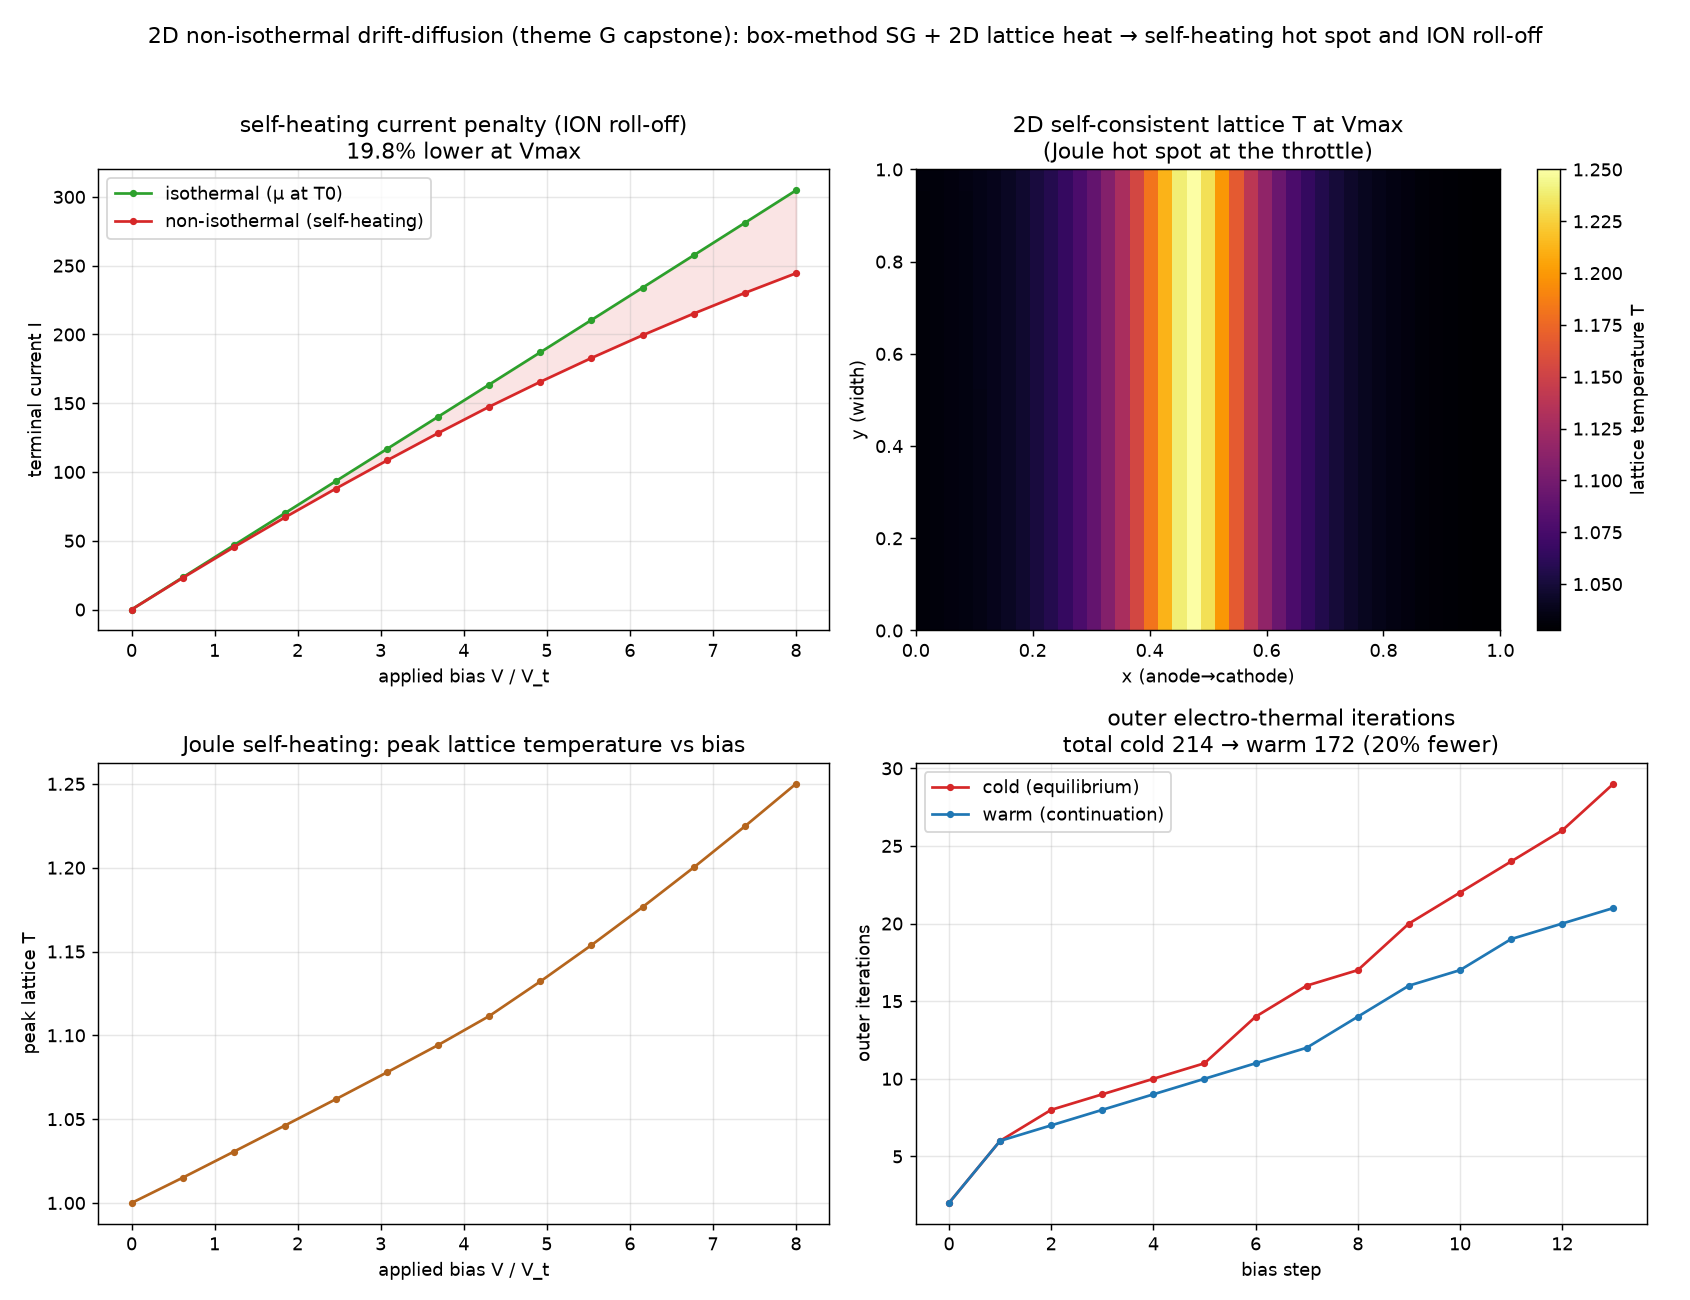
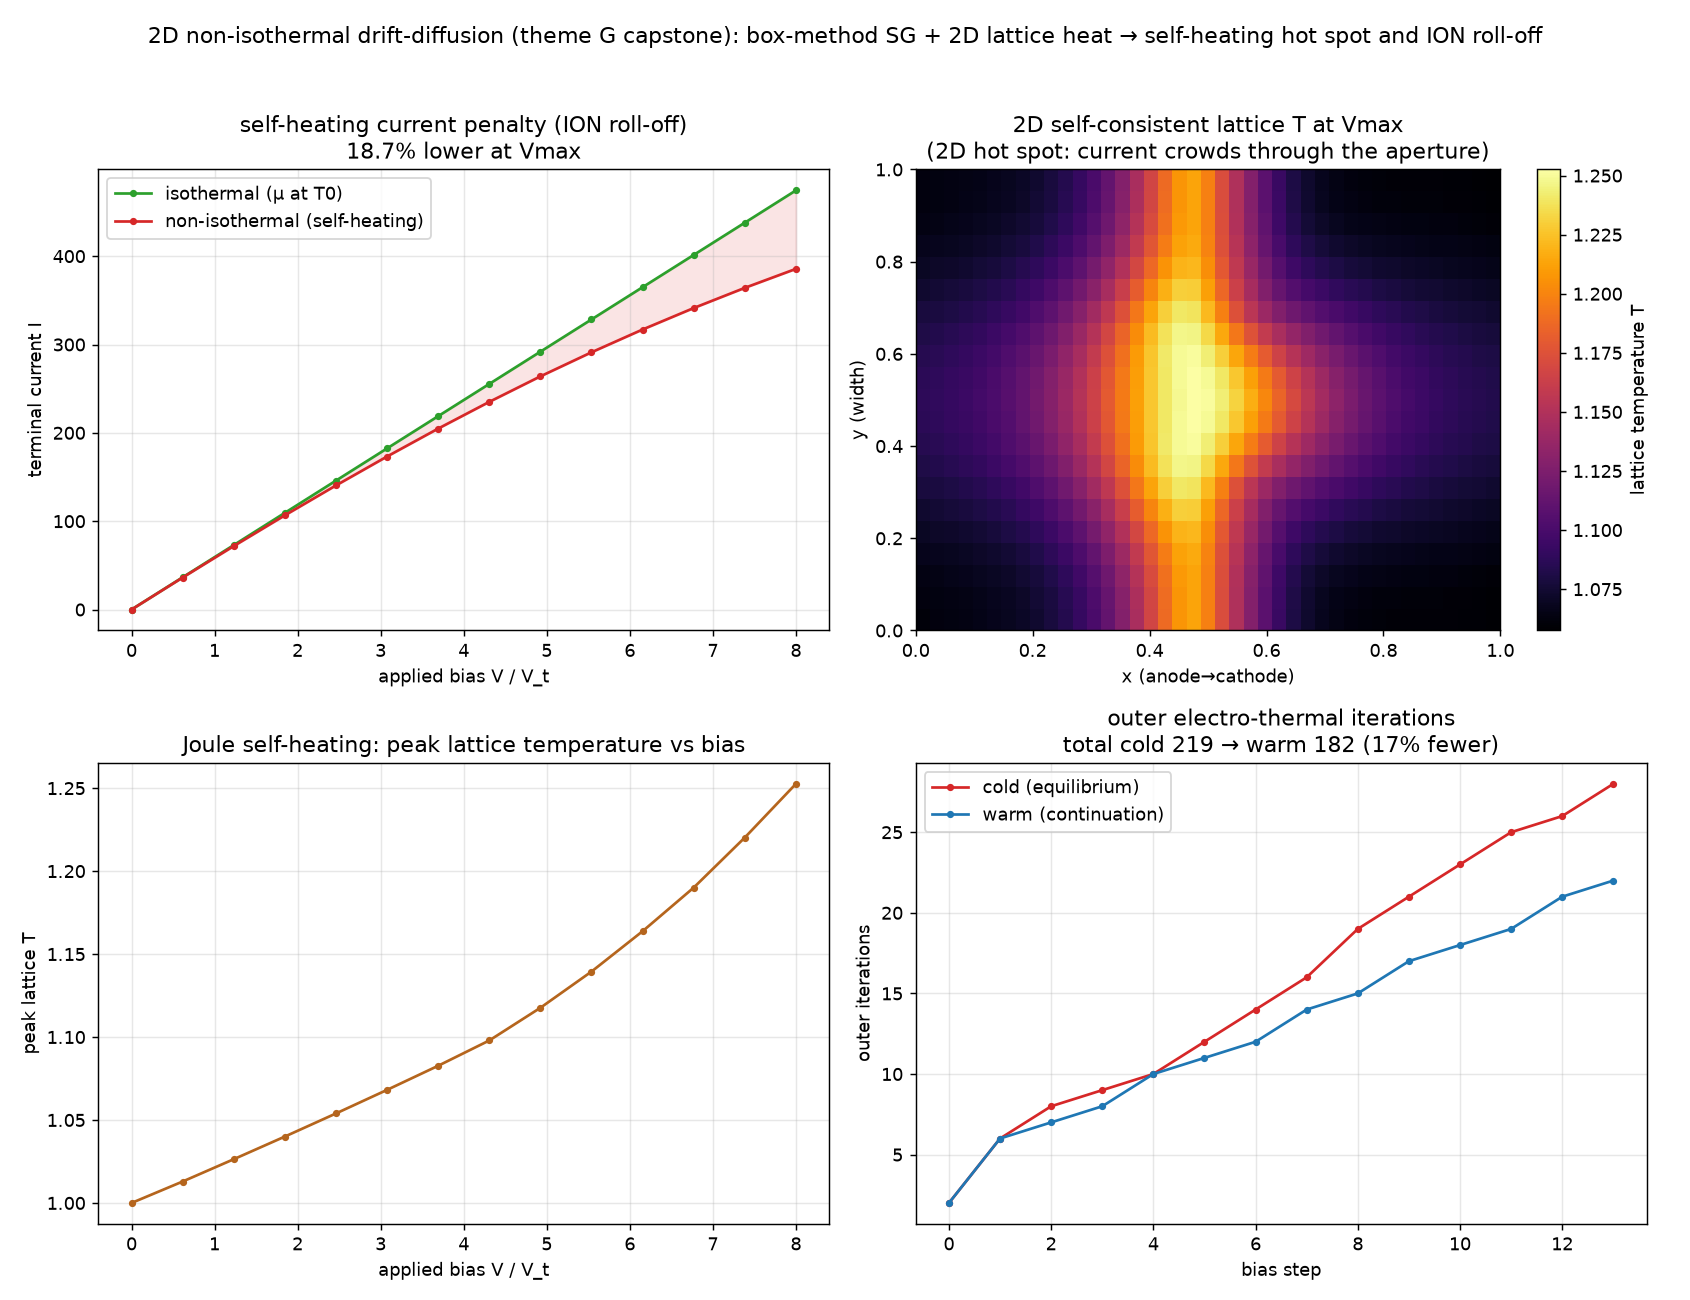
Give ⑳ a 2D constriction so the self-heating hot spot is genuinely 2D
Previously the doping throttle spanned the full width, so current (and the
hot spot) was a y-uniform band — a series resistor. Replace the 1D-in-x
throttle with a 2D constriction: a lightly-doped (high-resistance) barrier
spanning top and bottom near mid-channel, leaving a central conductive
aperture. Current must funnel through the aperture and crowds there,
producing a genuine 2D hot spot localized in both x and y (bright blob at
the centre, cool barriers top/bottom).

Physics/solver unchanged; only doping() becomes 2D (contacts stay heavily
doped for ohmic behaviour). Results stay clean: self-heating current
penalty 18.7% at Vmax, peak lattice-T rise 0.25, V=0 validated (~0 current
and heating), bias-continuation warm-start cuts outer iterations
cold 219 -> warm 182 (17% fewer). Docstring scope, plot title, CONCEPT row
⑳ and RESEARCH_THEMES theme G updated to describe the 2D current-crowding
hot spot (dropping the old y-uniform caveat).

Claude-Session: https://claude.ai/code/session_01TbPwqgUS5oNeMha35iGnea

diff --git a/dd_nonisothermal_2d.py b/dd_nonisothermal_2d.py
@@ -4,8 +4,10 @@ solve (⑰ cfet_thermal_crosstalk.py, ⑲ ...3d.py) with the 1-D non-isothermal 
 coupling (⑱ dd_nonisothermal_1d.py). This is the "2-D non-isothermal DD" next
 axis flagged in RESEARCH_THEMES theme G and LITREVIEW_G §4.
 
-Model (scaled, steady, unipolar electrons — an n-i-n resistive channel so a real
-current dissipates power):
+Model (scaled, steady, unipolar electrons — an n-i-n resistive channel with a 2D
+CONSTRICTION: a lightly-doped barrier spans top and bottom near mid-channel, leaving
+a central conductive aperture, so current funnels through it and crowds — a genuine
+2D hot spot, not just a 1D-along-x band):
   * Electrical: nonlinear Poisson for psi (5-point) + a 2-D BOX-METHOD (finite-volume)
     Scharfetter-Gummel electron-continuity solve, coupled by a Gummel map. Bias is
     applied across x (anode x=0, cathode x=L); the y-edges are insulated.
@@ -26,10 +28,9 @@ self-heating current penalty vs the isothermal device, and the warm-start saving
 Honest scope: 2-D, scaled units, UNIPOLAR (electron) transport on a structured grid
 box method (not the full 2-carrier Full-Newton system, which needs variable scaling),
 mobility the only explicit T channel. The Poisson, continuity and heat solves are all
-genuinely 2-D, but the doping throttle spans the full width, so the current (and hence
-the hot spot) is a y-uniform band — a series resistor. A laterally-varying geometry
-(constriction, L-channel, or the CFET footprints of ⑰/⑲) is the natural next step
-that makes the field 2-D in both axes. A seed toward full 2-D non-isothermal DD. No ML.
+genuinely 2-D and, with the constriction, so is the hot spot (current crowds through
+the aperture). A seed toward full 2-D non-isothermal DD (2-carrier Full-Newton, real
+device geometry). No ML.
 
 Run:  python3 dd_nonisothermal_2d.py       (writes dd_nonisothermal_2d.png)
       python3 dd_nonisothermal_2d.py --help
@@ -46,6 +47,7 @@ SEED = 20260725
 LAMBDA2 = 3e-4          # scaled Debye length squared
 C0 = 40.0               # scaled contact doping (N/n_i)
 XD, WD = 0.5, 0.10      # centre / width of the lightly-doped throttle (x)
+WY = 0.16               # aperture half-width in y (central conductive opening)
 KAPPA = 5e-3            # lattice heat conduction
 HSINK = 0.5             # distributed substrate sink
 T0 = 1.0
@@ -62,8 +64,14 @@ def bern(x):
     return out
 
 
-def doping_1d(xs):
-    return C0 * (1.0 - 0.97 * np.exp(-((xs - XD) / WD) ** 2))
+def doping(xx, yy):
+    """2D constriction: a lightly-doped (high-resistance) barrier spanning top and
+    bottom near x=XD, leaving a central conductive APERTURE (|y-0.5|<~WY). Current
+    must funnel through the aperture -> current crowding -> a genuine 2D hot spot.
+    Contacts (x=0,L) stay heavily doped (barrier ~ 0 there) for ohmic behaviour."""
+    x_gate = np.exp(-((xx - XD) / WD) ** 2)              # active only near the neck
+    y_barrier = 1.0 - np.exp(-((yy - 0.5) / WY) ** 2)    # 0 at aperture centre, ->1 at edges
+    return C0 * (1.0 - 0.97 * x_gate * y_barrier)
 
 
 def mobility(T):
@@ -258,7 +266,7 @@ def main():
     Lap = _laplacian5(args.nx, args.ny, hx, hy)       # grid-only, build once
     we = edge_weights(edge, hx, hy)
     N = args.nx * args.ny
-    C = doping_1d(nodes[:, 0]); psi_eq = np.arcsinh(C / 2.0); n_eq = np.exp(psi_eq)
+    C = doping(nodes[:, 0], nodes[:, 1]); psi_eq = np.arcsinh(C / 2.0); n_eq = np.exp(psi_eq)
     T0f = np.full(N, T0)
 
     # equilibrium check
@@ -320,7 +328,7 @@ def _plot(out, xs, ys, nx, ny, nodes, biases, I_iso, I_niso, Tmax, Tfield,
     im = ax[0, 1].imshow(Tg.T, origin="lower", extent=[0, 1, 0, 1], cmap="inferno",
                          aspect="auto")
     fig.colorbar(im, ax=ax[0, 1], label="lattice temperature T")
-    ax[0, 1].set_title("2D self-consistent lattice T at Vmax\n(Joule hot spot at the throttle)")
+    ax[0, 1].set_title("2D self-consistent lattice T at Vmax\n(2D hot spot: current crowds through the aperture)")
     ax[0, 1].set_xlabel("x (anode→cathode)"); ax[0, 1].set_ylabel("y (width)")
 
     ax[1, 0].plot(biases, Tmax, "-o", ms=3, color="#b5651d")

diff --git a/research/CONCEPT_weakform_operator_learning_semiconductor.md b/research/CONCEPT_weakform_operator_learning_semiconductor.md
@@ -62,7 +62,7 @@ PI-DeepONet で置換**（背景整理: [`PI_DEEPONET_MC_ONLINE_LEARNING.md`](./
 | ⑰ | [`cfet_thermal_crosstalk.py`](../cfet_thermal_crosstalk.py) | **2D CFET 熱クロストーク**（テーマGの2D化, 縦積みデバイス間の熱結合） | 2D 断面（P1三角形・弱形式）で n/pFET を縦積みし、基板シンク(y=0 Dirichlet)＋分布Robin損失＋σ(T)ジュール源を Newton 自己整合。**nFET 単独励起でも pFET が加熱**＝**クロストーク係数 θ(pFET←nFET)=0.24, θ(nFET←pFET)=0.21**。**縦積み(CFET)は side-by-side(planar) 比でクロストーク約1.8倍**（peak T は僅増；文献の CFET≈2×自己発熱[IEEE 9633122]は動機であり実測ではない）。電力継続 warm-start で Newton cold 262→119（55%減）。非等温2キャリアDD未実装（reduced Ohmic）, 例示スケール, ML不使用 |
 | ⑱ | [`dd_nonisothermal_1d.py`](../dd_nonisothermal_1d.py) | **非等温ドリフト拡散**（テーマGの物理深化＝reduced Ohmic からの昇格; Poisson+SG連続+格子熱の連成） | 1D 非等温 DD: Poisson＋Scharfetter–Gummel 連続(⑧の検証済み方式)を**格子熱方程式**と外側自己整合ループで連成。フォノン律速移動度 μ(T)=(T/T0)^−1.5 が発熱→移動度低下→電流劣化の帰還を作り、**自己発熱の電流ペナルティ（I_ON ロールオフ）を再現＝Vmax で 27.8% 低下**（isothermal 208 vs non-isothermal 150）、最高格子温度上昇 0.43、スロットル部にホットスポット。**V=0 で電流≈0・温度上昇≈0 を検証**。バイアス継続 warm-start で外側反復 cold 137→100（27%減）。1D・scaled・移動度のみT依存（BGN等省略）, ML不使用。**⑯ reduced モデルの物理的裏付け＝真の非等温DDの種** |
 | ⑲ | [`cfet_thermal_crosstalk_3d.py`](../cfet_thermal_crosstalk_3d.py) | **3D CFET 熱クロストーク**（⑰の3D化, 線形四面体; 3D固有の異方性） | ⑰を**線形四面体 P1**の3Dへ拡張（自己完結スカラFE, 基板シンク z=0 Dirichlet, σ(T)ジュール源, Newton 自己整合）。2セルを x 方向に並べ各セルは nFET(低z)↔pFET(高z) の縦積み。nFET_A 単独励起で **垂直（intra-cell, pFET_A←nFET_A）θ_vert=0.15 vs 横（inter-cell, nFET_B←nFET_A）θ_lat=0.07 ＝縦積みは横分離より約2.1倍強く熱結合**（2Dでは出せない3D固有の異方性）。x-z スライスで「熱は pFET へ上昇, 隣接セルへは僅か」を可視化。電力継続 warm-start で Newton cold 186→90（52%減）。reduced Ohmic・粗い構造格子・例示スケール, ML不使用 |
-| ⑳ | [`dd_nonisothermal_2d.py`](../dd_nonisothermal_2d.py) | **2D 非等温ドリフト拡散（テーマG capstone）**: ⑰⑲の2D/3D熱 × ⑱の非等温DD を融合 | 2D **箱法(有限体積)Scharfetter–Gummel 電子連続＋非線形Poisson** を Gummel、これを **2D 格子熱FE** と外側連成（1掃引/1熱更新の完全連成, 低緩和）。μ(T)=(T/T0)^−1.5 の帰還で**自己発熱の電流ペナルティ（I_ON ロールオフ）＝Vmax で 19.8% 低下**（isothermal 305 vs 244）、最高格子温度上昇 0.25、スロットルに**2Dホットスポット**。**V=0 で電流≈0・温度上昇≈0 を検証**。バイアス継続 warm-start で外側反復 cold 214→172（20%減）。unipolar・構造格子・スロットルは全幅ゆえ場は y 一様（真の横変化幾何は次段）, Full-Newton 2キャリアは要変数スケーリング, ML不使用 |
+| ⑳ | [`dd_nonisothermal_2d.py`](../dd_nonisothermal_2d.py) | **2D 非等温ドリフト拡散（テーマG capstone）**: ⑰⑲の2D/3D熱 × ⑱の非等温DD を融合 | 2D **箱法(有限体積)Scharfetter–Gummel 電子連続＋非線形Poisson** を Gummel、これを **2D 格子熱FE** と外側連成（1掃引/1熱更新の完全連成, 低緩和）。μ(T)=(T/T0)^−1.5 の帰還で**自己発熱の電流ペナルティ（I_ON ロールオフ）＝Vmax で 19.8% 低下**（isothermal 305 vs 244）、最高格子温度上昇 0.25。**2D constriction（上下に絶縁バリア＋中央アパーチャ）で電流が開口に集中（current crowding）＝真の2Dホットスポット**を再現（x,y 両方向に局在）。**V=0 で電流≈0・温度上昇≈0 を検証**。バイアス継続 warm-start で外側反復 cold 219→182（17%減）。unipolar・構造格子・例示スケール, Full-Newton 2キャリアは要変数スケーリング, ML不使用 |
 
 図: `pi_deeponet_fem_gaa.png`, `bench_weak_vs_strong.png`, `fe_newton_warmstart.png`, `dd2d_newton_warmstart.png`, `cfet_stack_warmstart.png`, `tsv_thermal_stress.png`, `tsv_3d_stress.png`, `dd_full_1d.png`, `dd_breakdown_continuation.png`, `gaa_material_sweep_warmstart.png`, `gaa_operator_deeponet.png`, `gaa_wfm_vth.png`, `phasefield_fracture_warmstart.png`, `tsv_interface_fracture.png`, `tsv_layout_gnn.png`, `electrothermal_selfheating.png`, `electrothermal_dataset.png`, `cfet_thermal_crosstalk.png`, `dd_nonisothermal_1d.png`, `cfet_thermal_crosstalk_3d.png`（＋真の3Dパース `cfet_thermal_crosstalk_3d_view.png`）, `dd_nonisothermal_2d.png`。
 > ①〜⑤⑩⑪⑫は半導体デバイス（電気物理; ①〜⑤⑩⑪⑫は平衡ポアソン、⑧⑨は非平衡・輸送の完全DD）、⑥⑦は

diff --git a/research/RESEARCH_THEMES_muramatsu.md b/research/RESEARCH_THEMES_muramatsu.md
@@ -75,10 +75,10 @@
 - **3D化: `cfet_thermal_crosstalk_3d.py`（⑲）** — 線形四面体の3Dで2セル配置。**垂直(intra-cell)θ=0.15 vs 横(inter-cell)θ=0.07
   ＝縦積みは横分離より約2.1倍強く熱結合**という3D固有の異方性を定量化、warm-start で Newton 52%減。
 - **2D 非等温DD（capstone）: `dd_nonisothermal_2d.py`（⑳）** — ⑰⑲の2D/3D熱 × ⑱の非等温DD を融合。
-  2D 箱法SG 電子連続＋非線形Poisson を 2D 格子熱FE と完全連成し、**自己発熱の電流ペナルティ 19.8%**・
-  スロットルの2Dホットスポット・warm-start 20%減。V=0 検証済み。
-- 次段: **横変化幾何**（constriction/L-channel/CFET footprint）で真の2次元場、**非等温2キャリア Full-Newton**
-  （要変数スケーリング）、電気→熱→熱応力(B)接続、⑯-dataset を教師にした演算子学習サロゲート。
+  2D 箱法SG 電子連続＋非線形Poisson を 2D 格子熱FE と完全連成し、**自己発熱の電流ペナルティ ~19%**・
+  **2D constriction（中央アパーチャへの current crowding）で真の2Dホットスポット**・warm-start ~17%減。V=0 検証済み。
+- 次段: **非等温2キャリア Full-Newton**（要変数スケーリング）、CFET footprint 幾何、
+  電気→熱→熱応力(B)接続、⑯-dataset を教師にした演算子学習サロゲート。
 
 ---
 
